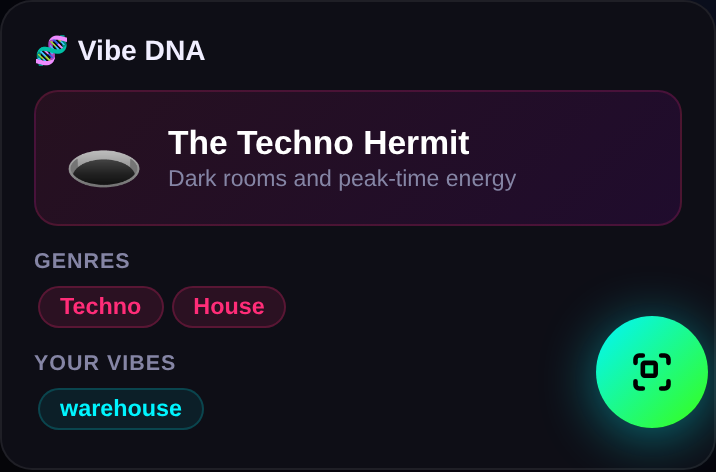
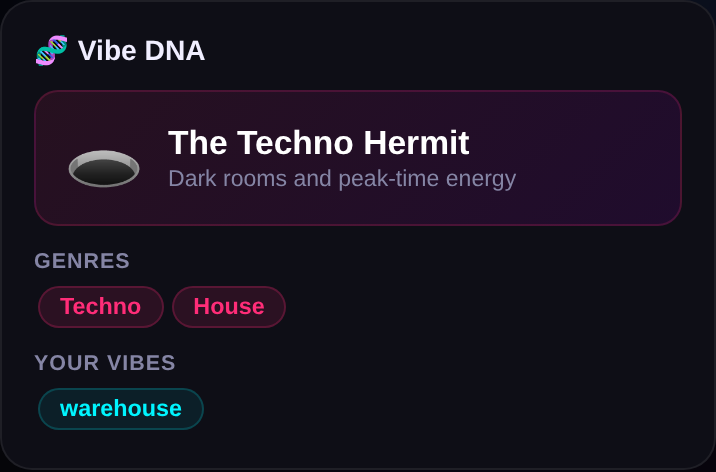
Add per-feature screenshots to drip emails instead of one per email
Expands from 1 screenshot per email to one per feature actually
mentioned in that email's copy -- welcome and crew_joined now show
4-5 images each (Crews, Raves, Ravers, Our Photos / Crew Jams, FAM
Poll, Dream Board, Archive Links, Our Photos), dream_board_stats adds
Rave Passport and Rave Wrapped alongside Vibe DNA, and crew_jams_poll
splits into distinct Crew Jams and FAM Poll callouts instead of
treating them as one feature.

Also fixes two things found while building the new shots:
- Our Photos copy previously described it as crew-wide ("the shared
  memory bank for your crew"); it's actually pairwise, shown on a
  specific raver's profile -- copy now says so accurately.
- capture-email-screenshots.js now hides the floating QR-scan button
  and applies a single near-future-festival-date helper consistently,
  fixing a stray "26675 days" countdown that showed up once the
  Ravers list started rendering each raver's next-rave tag.

Claude-Session: https://claude.ai/code/session_016rja2sqCaFWbgX6EKCSzxy

Changed region(s): [[0.7989, 0.6525, 1.0, 0.9492]]

diff --git a/scripts/capture-email-screenshots.js b/scripts/capture-email-screenshots.js
@@ -41,6 +41,20 @@ function stopServer() {
   if (serverProc) serverProc.kill();
 }
 
+// Base seedData()'s f1/f2 are dated 2099 (intentionally far-future so RSVP
+// tests never go stale), which reads as a nonsensical multi-decade countdown
+// anywhere a festival's date is actually displayed (crew "next rave up"
+// cards, the Raves list, each raver's "next rave" tag). Swap in near-future
+// dates for any shot that renders one of these.
+function withNearFutureFestivalDates(d) {
+  d.festivals = d.festivals.map((f) => {
+    if (f.id === 'f1') return { ...f, date: '2026-09-12' };
+    if (f.id === 'f2') return { ...f, date: '2026-11-01' };
+    return f;
+  });
+  return d;
+}
+
 async function shoot(context, { name, data, run, target }) {
   const page = await context.newPage();
   await bootAuthedApp(page, { data });
@@ -48,14 +62,17 @@ async function shoot(context, { name, data, run, target }) {
   await page.waitForTimeout(400); // let fire-and-forget dbLoad*().then(rerender*) calls in openDetail() settle
   // Clear chrome that isn't part of the feature being shown: the onboarding
   // tips banner, any toast fired by seeded data (e.g. badge-unlock side
-  // effects), and the fixed bottom nav (which otherwise visually overlaps
-  // whatever content happens to sit at the bottom of the viewport).
+  // effects), the fixed bottom nav, and the floating QR-scan button --
+  // all of which otherwise visually overlap whatever sits at the bottom
+  // or corner of the viewport.
   await page.evaluate(() => {
     if (typeof dismissGuidanceBanner === 'function') { try { dismissGuidanceBanner(); } catch (e) {} }
     const toastEl = document.getElementById('toast');
     if (toastEl) { toastEl.innerHTML = ''; toastEl.className = 'toast'; }
     const navEl = document.querySelector('nav');
     if (navEl) navEl.style.display = 'none';
+    const fabEl = document.getElementById('qr-fab');
+    if (fabEl) fabEl.style.display = 'none';
   });
   fs.mkdirSync(OUT_DIR, { recursive: true });
   const outPath = path.join(OUT_DIR, `${name}.png`);
@@ -80,17 +97,10 @@ async function main() {
   try {
     // 1. crew-header.png -- base seedData() already has crew c1 "Bass Syndicate"
     // with 3 members; a plain viewport shot at the top of the page frames the
-    // gradient header + member list without guessing exact DOM nesting. The
-    // base seed's festival is dated 2099 (intentionally far-future so RSVP
-    // tests never go stale) which reads as a nonsensical "889 months" on a
-    // "next rave up" card -- swap in a near-future date just for this shot.
+    // gradient header + member list without guessing exact DOM nesting.
     await shoot(context, {
       name: 'crew-header',
-      data: (() => {
-        const d = seedData();
-        d.festivals = d.festivals.map((f) => (f.id === 'f1' ? { ...f, date: '2026-09-12' } : f));
-        return d;
-      })(),
+      data: withNearFutureFestivalDates(seedData()),
       run: (p) => p.evaluate(() => openDetail('c1')),
     });
 
@@ -123,23 +133,50 @@ async function main() {
       });
     }
 
-    // 4. vibe-dna.png -- Vibe DNA unlocks at 3+ past raves for the logged-in user (app.html ~17067)
-    {
+    // 4/6/7. vibe-dna.png, rave-passport.png, rave-wrapped.png -- share one seed.
+    // Vibe DNA unlocks at 3+ past raves (app.html ~17067); Rave Wrapped needs
+    // 5+ past raves AND December, or 3 taps on the hidden star to force-unlock
+    // the gate (wrappedStarTap(), app.html:16958) -- so 5 past festivals covers
+    // both cards from a single seed.
+    function statsSeed() {
       const d = seedData();
       const pastFests = [
         { id: 'f-past-1', name: 'Dekmantel', date: '2023-08-02', location: 'Amsterdam, NL', color: '#00F5FF', days: 4, deleted_at: null },
         { id: 'f-past-2', name: 'Time Warp', date: '2024-04-06', location: 'Mannheim, DE', color: '#BF00FF', days: 1, deleted_at: null },
         { id: 'f-past-3', name: 'Sonar', date: '2024-06-13', location: 'Barcelona, ES', color: '#FF2D78', days: 3, deleted_at: null },
+        { id: 'f-past-4', name: 'Circoloco', date: '2024-08-20', location: 'Ibiza, ES', color: '#39FF14', days: 1, deleted_at: null },
+        { id: 'f-past-5', name: 'Dimensions', date: '2025-08-27', location: 'Pula, HR', color: '#FF6BA8', days: 4, deleted_at: null },
       ];
       d.festivals.push(...pastFests);
       pastFests.forEach((f) => d.raver_festivals.push({ raver_id: 'r-you', festival_id: f.id }));
-      await shoot(context, {
-        name: 'vibe-dna',
-        data: d,
-        run: (p) => p.evaluate(() => { switchTab('stats'); loadStatsPage(); }),
-        target: '.stats-section-card:has-text("Vibe DNA")',
-      });
+      return d;
     }
+
+    await shoot(context, {
+      name: 'vibe-dna',
+      data: statsSeed(),
+      run: (p) => p.evaluate(() => { switchTab('stats'); loadStatsPage(); }),
+      target: '.stats-section-card:has-text("Vibe DNA")',
+    });
+
+    await shoot(context, {
+      name: 'rave-passport',
+      data: statsSeed(),
+      run: (p) => p.evaluate(() => { switchTab('stats'); loadStatsPage(); }),
+      target: '.stats-section-card:has-text("Rave Passport")',
+    });
+
+    await shoot(context, {
+      name: 'rave-wrapped',
+      data: statsSeed(),
+      run: (p) => p.evaluate(() => {
+        switchTab('stats');
+        loadStatsPage();
+        wrappedStarTap(); wrappedStarTap(); wrappedStarTap(); // force-unlocks Wrapped outside December
+        openWrapped();
+      }),
+      target: '#wrapped-card',
+    });
 
     // 5. crew-jams.png
     {
@@ -158,6 +195,84 @@ async function main() {
         target: '#jam-section',
       });
     }
+
+    // 8. fam-poll.png -- needs votes (not just a bare poll) to render result
+    // bars instead of an empty ballot; TEST_UID voting makes hasVoted true.
+    {
+      const d = seedData();
+      d.crew_polls = [{
+        id: 'poll-1', crew_id: 'c1', created_by: TEST_UID,
+        question: 'Opener or headliner?', poll_type: 'choice',
+        options: ['Opener', 'Headliner'], is_anonymous: false,
+        expires_at: null, deleted_at: null, created_at: '2026-06-01T00:00:00Z',
+      }];
+      d.crew_poll_votes = [
+        { poll_id: 'poll-1', voter_user_id: TEST_UID, vote_value: '1' },
+        { poll_id: 'poll-1', voter_user_id: 'kai-uid', vote_value: '1' },
+        { poll_id: 'poll-1', voter_user_id: 'sam-uid', vote_value: '0' },
+      ];
+      await shoot(context, {
+        name: 'fam-poll',
+        data: d,
+        run: (p) => p.evaluate(() => openDetail('c1')),
+        target: '#fam-poll-section',
+      });
+    }
+
+    // 9. archive-links.png
+    {
+      const d = seedData();
+      d.crew_archive_links = [{
+        id: 'link-1', crew_id: 'c1', added_by: TEST_UID,
+        url: 'https://youtube.com/watch?v=example',
+        label: 'Boiler Room aftermovie', festival_id: null, deleted_at: null, created_at: '2026-06-01T00:00:00Z',
+      }];
+      await shoot(context, {
+        name: 'archive-links',
+        data: d,
+        run: (p) => p.evaluate(() => openDetail('c1')),
+        target: '#archive-section',
+      });
+    }
+
+    // 10. our-photos.png -- a pairwise shared-photo feature between "you" and
+    // one other raver (viewed on their profile), not a crew-wide gallery.
+    // photo_url points at existing repo assets served by the local static
+    // server. og-preview-1.png crops awkwardly here (off-center screenshot
+    // content, reads as a mistake rather than a photo) -- og-image.png and
+    // og-preview-2.png are both centered wordmark art that crop cleanly.
+    {
+      const d = seedData();
+      d.our_photos = [
+        { uploader_user_id: TEST_UID, raver_a_id: 'r-sam', raver_b_id: 'r-you', photo_url: `${BASE_URL}/og-image.png`, deleted_at: null },
+        { uploader_user_id: 'sam-uid', raver_a_id: 'r-sam', raver_b_id: 'r-you', photo_url: `${BASE_URL}/og-preview-2.png`, deleted_at: null },
+      ];
+      await shoot(context, {
+        name: 'our-photos',
+        data: d,
+        run: (p) => p.evaluate(() => openProfile('r-sam')),
+        target: '#our-photos-async-wrap',
+      });
+    }
+
+    // 11. raves-list.png
+    await shoot(context, {
+      name: 'raves-list',
+      data: withNearFutureFestivalDates(seedData()),
+      run: (p) => p.evaluate(() => switchTab('events')),
+      target: '#events-list',
+    });
+
+    // 12. ravers-list.png -- base seedData()'s 3 ravers already populate this
+    // (the page lists every raver you own/created/claimed app-wide, not just
+    // one crew's members); still needs the near-future date fix since each
+    // raver's card shows their own "next rave" countdown.
+    await shoot(context, {
+      name: 'ravers-list',
+      data: withNearFutureFestivalDates(seedData()),
+      run: (p) => p.evaluate(() => switchTab('members')),
+      target: '#members-grid',
+    });
   } finally {
     await browser.close();
     stopServer();

diff --git a/supabase/functions/send-drip-emails/index.ts b/supabase/functions/send-drip-emails/index.ts
@@ -51,9 +51,17 @@ function button(label: string, href: string): string {
 // Framed in a surface/border card so the dark UI screenshot doesn't bleed
 // into the email's own dark background with no visible edge.
 function screenshot(file: string, alt: string): string {
-  return `<div style="margin:20px 0;border:1px solid #1e1e2e;border-radius:12px;overflow:hidden;background:#12121a;">
+  return `<div style="margin:12px 0 24px;border:1px solid #1e1e2e;border-radius:12px;overflow:hidden;background:#12121a;">
         <img src="${APP_ORIGIN}/screenshots/email/${file}" alt="${alt}" width="480" style="display:block;width:100%;max-width:480px;height:auto;" />
       </div>`;
+}
+
+// A labeled feature callout followed by its screenshot -- the repeating unit
+// for the "one screenshot per feature mentioned" emails, so a stack of these
+// reads as a visual tour rather than a bare list of unlabeled images.
+function feature(emoji: string, title: string, desc: string, file: string, alt: string): string {
+  return `<p style="margin-bottom:6px;"><strong>${emoji} ${title}</strong> — ${desc}</p>
+      ${screenshot(file, alt)}`;
 }
 
 const TEMPLATES: Record<string, { subject: string; render: (ctx: { firstName: string; crewName?: string }) => string }> = {
@@ -63,12 +71,10 @@ const TEMPLATES: Record<string, { subject: string; render: (ctx: { firstName: st
       <h1 style="font-size:1.4rem;">Hey ${firstName}, welcome to the tribe 🖤</h1>
       <p>RaveFAM is where your crew lives between raves — track the shows you're hitting, see who's already going, and hang on to the memories after.</p>
       <p>Here's where to start:</p>
-      <ul>
-        <li>🎪 <strong>Crews</strong> — start one or join with an invite link</li>
-        <li>🎫 <strong>Raves</strong> — RSVP to the festivals and shows you're tracking</li>
-        <li>🫂 <strong>Ravers</strong> — your crew's directory, one tap away</li>
-        <li>📸 <strong>Photos</strong> — drop memories only your crew can see</li>
-      </ul>
+      ${feature("🎪", "Crews", "start one or join with an invite link", "crew-header.png", "A crew page showing the next rave up and who from the crew is going")}
+      ${feature("🎫", "Raves", "RSVP to the festivals and shows you're tracking", "raves-list.png", "The Raves list showing upcoming festivals and who's going")}
+      ${feature("🫂", "Ravers", "your crew's directory, one tap away", "ravers-list.png", "The Ravers directory listing crew members")}
+      ${feature("📸", "Our Photos", "build a shared photo album with every raver you connect with", "our-photos.png", "Our Photos showing shared memory polaroids between two ravers")}
       <p>More good stuff is coming your way over the next few weeks — for now, go build your squad.</p>
       ${button("Open RaveFAM", `${APP_ORIGIN}/app.html`)}`,
   },
@@ -77,13 +83,11 @@ const TEMPLATES: Record<string, { subject: string; render: (ctx: { firstName: st
     render: ({ firstName, crewName }) => `
       <h1 style="font-size:1.4rem;">You're in${crewName ? ` ${crewName}` : " a crew"} now, ${firstName} 🎪</h1>
       <p>This is where RaveFAM actually clicks. Here's what to do together:</p>
-      <ul>
-        <li>🎶 <strong>Crew Jams / FAM Poll</strong> — vote on the music and plans for your next rave</li>
-        <li>📌 <strong>Dream Board</strong> — pin the festivals you all want to hit next</li>
-        <li>🎬 <strong>Archive Links</strong> — save the aftermovie, the set, the group chat gold, all in one place</li>
-        <li>📸 <strong>Our Photos</strong> — the shared memory bank for your crew</li>
-      </ul>
-      ${screenshot("dream-board.png", "The Dream Board inside a crew, with festivals pinned by different members")}
+      ${feature("🎶", "Crew Jams", "drop the tracks getting everyone hyped for the next rave", "crew-jams.png", "A Crew Jams playlist card shared inside a crew")}
+      ${feature("🗳️", "FAM Poll", "vote as a group on where to go and what to do next", "fam-poll.png", "A FAM Poll with live vote results")}
+      ${feature("📌", "Dream Board", "pin the festivals you all want to hit next", "dream-board.png", "The Dream Board inside a crew, with festivals pinned by different members")}
+      ${feature("🎬", "Archive Links", "save the aftermovie, the set, the group chat gold, all in one place", "archive-links.png", "The Archive with a saved aftermovie link")}
+      ${feature("📸", "Our Photos", "a shared photo album with each crewmate", "our-photos.png", "Our Photos showing shared memory polaroids between two ravers")}
       <p>Go say hi.</p>
       ${button("Open your crew", `${APP_ORIGIN}/app.html`)}`,
   },
@@ -109,18 +113,21 @@ const TEMPLATES: Record<string, { subject: string; render: (ctx: { firstName: st
     subject: "Your Vibe DNA is ready 📊",
     render: ({ firstName }) => `
       <h1 style="font-size:1.4rem;">${firstName}, your Stats are live</h1>
-      <p>Head to the Stats tab for your <strong>Vibe DNA</strong> (the genres and artists that define your year), your <strong>Rave Passport</strong> (every show you've tracked, stamped), and a <strong>Rave Wrapped</strong> card worth screenshotting.</p>
-      ${screenshot("vibe-dna.png", "A Vibe DNA stats card showing a rave personality type and top genres")}
-      <p>And while you're in there — pin a few festivals to your <strong>Dream Board</strong> so your crew knows what you're manifesting next.</p>
+      <p>Head to the Stats tab for a full breakdown of your year:</p>
+      ${feature("🧬", "Vibe DNA", "the genres, tags, and personality type that define your year", "vibe-dna.png", "A Vibe DNA stats card showing a rave personality type and top genres")}
+      ${feature("🛂", "Rave Passport", "every show you've tracked, stamped", "rave-passport.png", "A Rave Passport grid of stamped festivals")}
+      ${feature("✨", "Rave Wrapped", "a year-in-review card worth screenshotting", "rave-wrapped.png", "A Rave Wrapped card with yearly rave stats and personality")}
+      ${feature("📌", "Dream Board", "pin a few festivals so your crew knows what you're manifesting next", "dream-board.png", "The Dream Board inside a crew, with festivals pinned by different members")}
       ${button("View my Stats", `${APP_ORIGIN}/app.html`)}`,
   },
   crew_jams_poll: {
     subject: "Last one, we promise 🎶",
     render: ({ firstName }) => `
       <h1 style="font-size:1.4rem;">One more thing before we leave you alone, ${firstName}</h1>
-      <p>If your crew hasn't tried <strong>Crew Jams / FAM Poll</strong> yet, that's your move — vote on music, settle the "what are we listening to in the car" debate, and lock in plans together.</p>
-      ${screenshot("crew-jams.png", "A Crew Jams playlist card shared inside a crew")}
-      <p>And whenever you've got the photos from your last rave, drop them in <strong>Our Photos</strong> before they get lost in your camera roll forever.</p>
+      <p>If your crew hasn't tried these yet, that's your move:</p>
+      ${feature("🎶", "Crew Jams", "vote on music, settle the \"what are we listening to in the car\" debate", "crew-jams.png", "A Crew Jams playlist card shared inside a crew")}
+      ${feature("🗳️", "FAM Poll", "lock in plans together with a live group vote", "fam-poll.png", "A FAM Poll with live vote results")}
+      ${feature("📸", "Our Photos", "drop the photos from your last rave before they get lost in your camera roll forever", "our-photos.png", "Our Photos showing shared memory polaroids between two ravers")}
       <p>That's the whole tour. See you out there 🖤</p>
       ${button("Open Crew Jams", `${APP_ORIGIN}/app.html`)}`,
   },